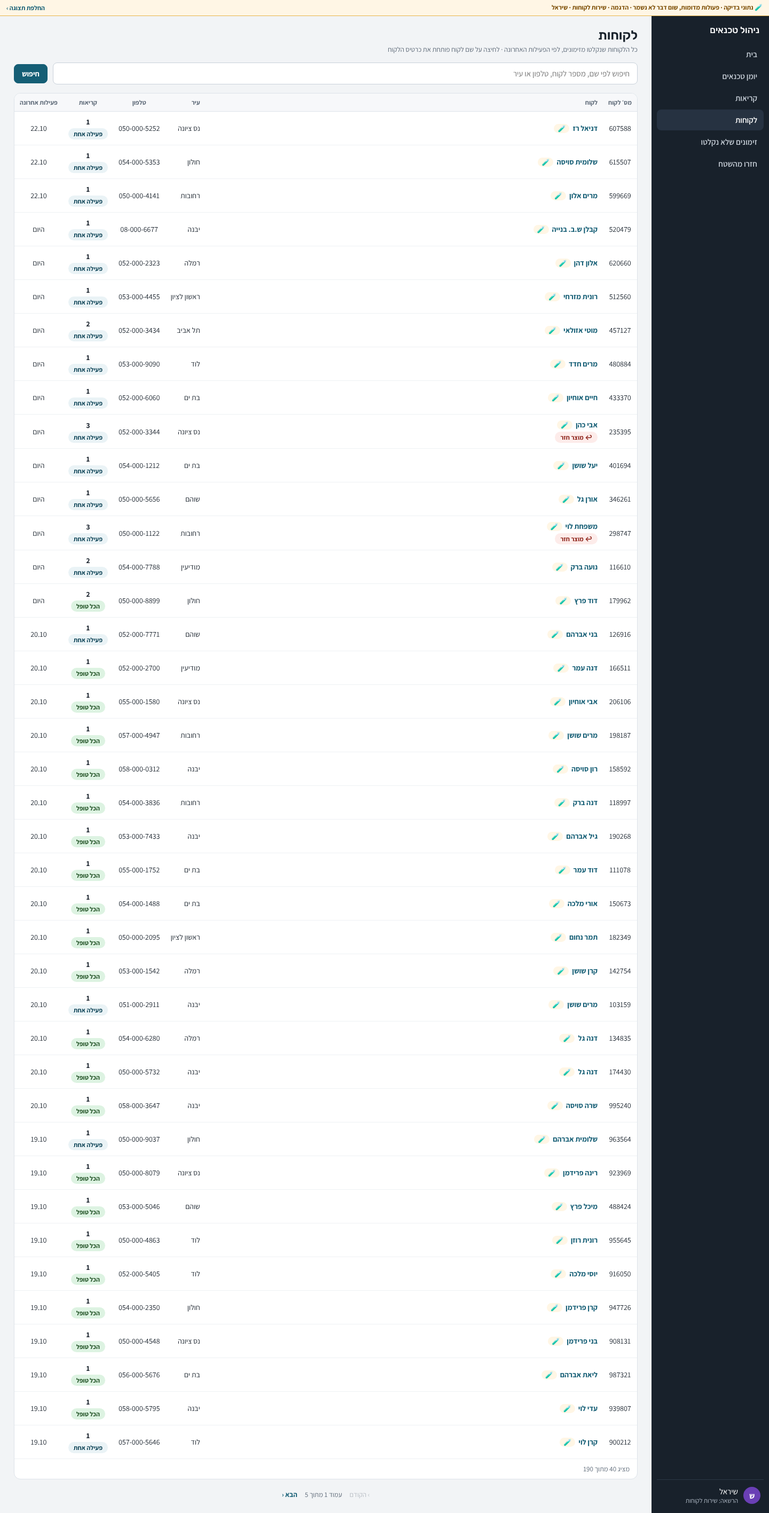
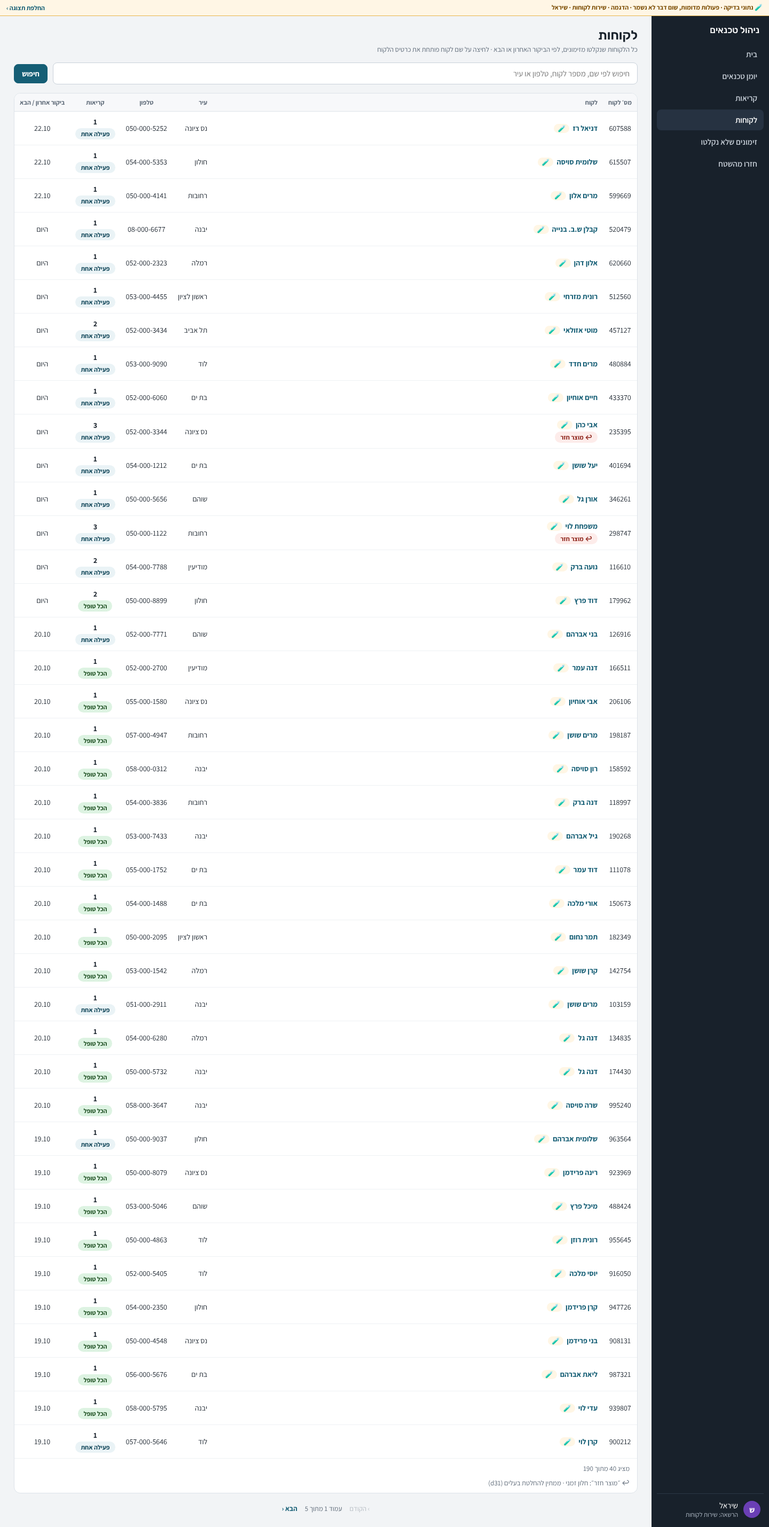
feat(ui-demo-4): customers and customer card, products edit, unparsed invitations, back from field (phase F)
- 'לקוחות' (search by name, customer number, phone, city; paging) and the
  customer card (calls with D38 status, products with a 'came back'
  marker; return window 30 days, temporary, pending d31); 'calls' key.
- 'מוצרים' (PR-06, D19): SKU, name, brand, supplier ('לא הוזן'), first
  seen; edit name/brand/supplier only where 'products' is offered; no
  import or delete; invitations never overwrite names (PR-07).
- 'זימונים שלא נקלטו': missing required field, unknown pickup place,
  invalid value; unknown SKU is never a reason (IN-02); rep mail pending
  d09; event-driven (D08).
- 'חזרו מהשטח': calls in 'המשך טיפול' with no next visit; the Outlook
  action is disabled until Microsoft 365 is connected (D23).
- Open decision #15: both work-queue screens shown to Manager, Customer
  Service and Creator as a labelled temporary rule; no matrix key
  invented.
- New ports customers, products, intake and calls.backFromField;
  fixtures and simulated products.update under app/dev (G-05).
- Tests: new routes in DEMO_PAGES, demo.spec and data-validate cases;
  22 screenshots in docs/review/ui-demo-4/.
- Independent fidelity and policy reviews; fixes applied (WORKLOG).

Written by Claude Code under the owner's direction.

diff --git a/tests/e2e/demo.spec.ts b/tests/e2e/demo.spec.ts
@@ -1373,7 +1373,10 @@ test.describe("customers and the customer card (OF-05, OF-16)", () => {
 
     await search.fill("אבי כהן");
     await page.getByRole("button", { name: "חיפוש", exact: true }).click();
-    await expect(page).toHaveURL(/[?&]q=/);
+    // Wait for this search, not the previous one (q=298747 already satisfied a bare /[?&]q=/ and
+    // a total below `before`, so the rows could still be the previous result).
+    await expect(page).toHaveURL((url) => url.searchParams.get("q") === "אבי כהן");
+    await expect(rowsOf(page).first().getByRole("link")).toHaveAttribute("aria-label", /אבי כהן/);
     await expect.poll(totalOf).toBeLessThan(before);
     const names = await rowsOf(page).getByRole("link").evaluateAll((els) => els.map((e) => e.getAttribute("aria-label") ?? ""));
     expect(names.length).toBeGreaterThan(0);
@@ -1517,7 +1520,8 @@ test.describe("products (PR-04 to PR-07, D19)", () => {
     const brand = form.getByRole("combobox", { name: /^מותג/ });
     const inactive = brand.locator("option", { hasText: "הידרו-פלוס (לא פעיל)" });
     await expect(inactive).toHaveCount(1);
-    await expect(inactive).toBeDisabled();
+    // A disabled <option> (toBeDisabled reads the select's state, not the option's).
+    await expect(inactive).toHaveJSProperty("disabled", true);
     await expect(brand).toHaveValue((await inactive.getAttribute("value")) ?? "");
     // No other inactive option is offered.
     await expect(brand.locator("option", { hasText: "(לא פעיל)" })).toHaveCount(1);

diff --git a/components/office/CustomersTable.tsx b/components/office/CustomersTable.tsx
@@ -138,17 +138,17 @@ export function CustomersTable({
         {total ? (
           <div className="sub" style={{ padding: "10px 14px" }}>
             מציג <span className="num">{rows.length}</span> מתוך <span className="num">{total}</span>
-            {returnedNote && anyReturned && (
-              <span style={{ display: "block", marginTop: 4 }}>
-                <span aria-hidden="true">↩ </span>
-                ״מוצר חזר״: {returnedNote}
-              </span>
-            )}
           </div>
         ) : (
           <div className="empty">{query ? `לא נמצאו לקוחות עבור "${query}"` : "אין לקוחות"}</div>
         )}
       </div>
+      {returnedNote && anyReturned && (
+        <div className="sub" style={{ padding: "0 14px 10px" }}>
+          <span aria-hidden="true">↩ </span>
+          ״מוצר חזר״: {returnedNote}
+        </div>
+      )}
     </section>
   );
 }

diff --git a/docs/WORKLOG.md b/docs/WORKLOG.md
@@ -4,22 +4,33 @@
 - Branch `claude/ui-demo-4`, started on `claude/ui-demo-3` (PR #8, phase E, `a9a3566`). Fictional data only (`/dev/demo`); no Supabase, network or real email; every action is simulated ("פעולה מדומה · לא נשמר"). Every screen reads through `demoDataAccess` (new ports `customers`, `products`, `intake` and `calls.backFromField`, `docs/architecture-data-access.md`), acts only through `useCommands()` (new `products.update` in `SimulatedCommands`) and renders through `DemoOfficeFrame` (sentinel and "נתוני בדיקה" strip). `docs/demo.html` has none of these screens (OF-16 ADD): they are designed in its language (cards, `.sec` heads, tables in `.scrollx` with the 520 px compact layout of phase E, pills, KPI tiles, chips, `.note`). Permission values are display only and TEMPORARY (G-04, D51).
 - **Data (fixtures, G-05):** customers are derived from the seeded calls (one per customer number, id `cu-<number>`, never the number itself; `_data/customers.ts`), with seven earlier calls of five hand-written customers added to `seed.ts` (dated before the dashboards' first October week) so that customers have repeat calls and a product that came back. Two products created from invitations with empty fields (MX-410 without brand and supplier, TB-75 without supplier), brands and suppliers with ids and one inactive brand (`reference.ts`), the catalogue with first-seen invitation and row versions (`_data/products.ts`), and seven unparsed invitations, one or more per problem kind, all from the simulator (`_data/intake.ts`). All names, phones, addresses and customer numbers are fictional; emails are `@example.test`.
 - **Screens** (placeholders replaced):
-  - **"לקוחות"** (`office/[role]/customers?q&page`, matrix key `calls`): server search by name, customer number (OF-05), phone with or without dashes, or city (a GET form; the query is in the URL, a new search starts at page 1, "ניקוי החיפוש"), latest activity first, 40 per page with the shared pager (OF-04). Columns: customer number, name (link to the card, 🧪, SIM-16), city, phone, number of calls with "N פעילות" / "הכל טופל", latest activity; "↩ מוצר חזר". At 520 px and below number, city and phone move under the name.
+  - **"לקוחות"** (`office/[role]/customers?q&page`, matrix key `calls`): server search by name, customer number (OF-05), phone with or without dashes, or city (a GET form; the query is in the URL, a new search starts at page 1, "ניקוי החיפוש"), latest or next visit first, 40 per page with the shared pager (OF-04). Columns: customer number, name (link to the card, 🧪, SIM-16), city, phone, number of calls with "N פעילות" / "הכל טופל", "ביקור אחרון / הבא" (as the calls list); "↩ מוצר חזר", qualified under the table as the temporary window (d31). At 520 px and below number, city and phone move under the name.
   - **Customer card** (`office/[role]/customers/[id]`): "› חזרה ללקוחות", name with 🧪 and customer number; five counters (all and one per service-call status, D38) that open the calls list searched by the customer number; "פרטי לקוח" from the latest invitation and the latest visit's address (D39); "מוצרים של הלקוח" (SKU, brand and supplier with "לא הוזן", 🧪 SIM-17, "↩ חזר תוך זמן קצר" with each return linked to both calls; the 30-day window is labelled "חלון זמני · ממתין להחלטת בעלים (d31)"; "במסך מוצרים ›" only for roles offered "מוצרים"); "קריאות הלקוח" (request linked to the call card, 🧪, product, technician, visits, latest or next visit with its source and "בוטל", status pill with the follow-up reason; bounded at 40 with a link to all the customer's calls). An unknown id is a 404; a role without `calls` gets "אין הרשאה" and no customer data is read (not even for the page title). The office call card's "לקוח וכתובת" now links to the customer card ("לכרטיס הלקוח ›") where `calls` is offered.
   - **"מוצרים"** (`office/[role]/products?q&page`, PR-01 to PR-07, D19; matrix key `products`): search by SKU, name, brand or supplier (SKU normalized, PR-07), columns SKU with 🧪, name, brand and supplier ("לא הוזן" when empty, PR-04, OF-07), number of calls (linked to the calls list searched by SKU) and "נוצר מזימון" (source icon, request linked to the call card, date). "עריכה" opens a form under the row (name, brand, supplier; active options only, the current inactive one shown disabled; "לא הוזן" clears; the SKU is never edited) and runs `useCommands().products.update` with the row version (D44) and only the changed fields; a simulated result marks the row "לא נשמר · פעולה מדומה". No import and no delete; the rules note says that an invitation never overwrites an existing name. Customer service gets "אין הרשאה" (choice: the spec defines this screen by its edit capability, so there is no read-only list for `calls`; product facts stay on the call and customer cards).
-  - **"זימונים שלא נקלטו"** (`office/[role]/unparsed?page`, IN-01 to IN-04): one row per invitation, newest first: subject (plain text, untrusted), received time, rep, technician (or "לא זוהה" with the attendee email), the invitation's own date and times, the request number when read, source "🧪 זימון בדיקה" (SIM-14) and "מה לתקן בזימון" with a kind pill per problem ("חסר שדה חובה", "מקום איסוף לא מוכר" (IN-03), "ערך לא תקין" with what the field accepts), the Settings label and the value as read. An unknown SKU is never a reason (IN-02, D19). "מייל לנציגה: לא נשלח · ממתין להחלטת בעלים (d09)" on every row; never shown as sent. The explanation says fixing the invitation in Outlook re-sends it and intake is event-driven, without polling (D08). No actions.
-  - **"חזרו מהשטח"** (`office/[role]/back-from-field?tech&page`): calls in "המשך טיפול" without a next visit (D38), oldest first: customer, city, reason pill, request with 🧪, visit, technician, closing time, product, source, summary excerpt, next-visit note, cancelled later visits, "ממתינה N ימים" (red after 7, as the demo's oldest follow-ups table). Counters "ממתינות לביקור חדש" and "הוותיקה ביותר" (server queries, limit 1, never counted from the page), technician chips as links with `aria-current`, "לכרטיס הקריאה ›" and a disabled "זימון ביקור חדש ב-Outlook" described by the visible hint "יהיה זמין אחרי חיבור Microsoft 365 (D23)" (`outlookConnected` false; never a fake Outlook link, OF-08 pattern).
-  - **Open decision #15 (d23), temporary and labelled:** which matrix key gates "זימונים שלא נקלטו" and "חזרו מהשטח" is undecided, so `workQueueScreensOffered()` (`_data/roles.ts`) offers both to every office role (the roles the spec lists) as a fixed rule, no matrix key is invented, and both screens show "⏳ הרשאת צפייה (החלטה פתוחה #15): בינתיים שירות לקוחות, מנהל ויוצר · ממתין להחלטת בעלים (d23)".
+  - **"זימונים שלא נקלטו"** (`office/[role]/unparsed?page`, IN-01 to IN-04): one row per invitation, newest first: subject (plain text, untrusted), received time, rep, technician (or "לא זוהה" with the attendee email), the invitation's own date and times, the request number when read, source "🧪 זימון בדיקה" (SIM-14) and "מה לתקן בזימון" with a kind pill per problem ("חסר שדה חובה", "מקום איסוף לא מוכר" (IN-03), "ערך לא תקין" with what the field accepts), the Settings label and the value as read. An unknown SKU is never a reason (IN-02, D19). "מייל לנציגה: לא נשלח · ממתין להחלטת בעלים (d09)" on every row; never shown as sent. The explanation says fixing the invitation in Outlook re-sends it and intake is event-driven, without polling (D08; decision codes are not in the user text). No actions.
+  - **"חזרו מהשטח"** (`office/[role]/back-from-field?tech&page`): calls in "המשך טיפול" without a next visit (D38), oldest first: customer, city, reason pill, request with 🧪, visit, technician, closing time, product, source, summary excerpt, next-visit note, cancelled later visits, "ממתינה N ימים" (red after 7, as the demo's oldest follow-ups table). Counters "ממתינות לביקור חדש" and "הוותיקה ביותר" (server queries, limit 1, never counted from the page), technician chips as links with `aria-current`, "לכרטיס הקריאה ›" and a disabled "זימון ביקור חדש ב-Outlook" described by the visible hint "זימון ביקור חדש ב-Outlook יהיה זמין אחרי חיבור Microsoft 365." (D23; `outlookConnected` false; never a fake Outlook link, OF-08 pattern).
+  - **Open decision #15 (d23), temporary and labelled:** which matrix key gates "זימונים שלא נקלטו" and "חזרו מהשטח" is undecided, so `workQueueScreensOffered()` (`_data/roles.ts`) offers both to every office role (the roles the spec lists) as a fixed rule, no matrix key is invented, and both screens show "⏳ הרשאת צפייה זמנית: מנהל, שירות לקוחות ויוצר · ממתין להחלטת בעלים (#15)" (the roles are derived from the rule; the decision's number, not its board ref d23, so it cannot be read as the approved D23).
   - **Navigation (OF-02):** the sidebar order is "לוח בקרה / בית", "יומן טכנאים", "קריאות", "לקוחות" (with `calls`), "זימונים שלא נקלטו", "חזרו מהשטח", "דשבורד", "מוצרים" (with `products`), "משתמשים", "הגדרות", following the spec's office screens table. The Manager's and customer service's home work queues link to "חזרו מהשטח" ("למסך חזרו מהשטח ›"), and the `/dev/demo` landing lists the new screens.
 - **Deviations applied:** OF-02, OF-04, OF-05, OF-07, OF-08 (pattern), OF-16, IN-01 to IN-04, PR-01 to PR-07, SIM-14 to SIM-17, D08, D19, D23, D38, D39, D44, D47, G-04. Not touched: OF-12 (the dashboard's products tab). **Pending (visible, never resolved):** #15 / d23 on both work-queue screens, d09 on every unparsed row, D23 for the Outlook action, the return window (d31).
 - **Integration:** the three builders' work fitted without component changes. Removed the unused `ScreenPlaceholder` scaffold from `office/[role]/_Placeholder.tsx`; the #15 access line is one constant (`WORK_QUEUE_ACCESS_HINT`, `_data/roles.ts`) instead of a copy on each page; the landing page lists the new screens. No CSS rule changed outside the new `intake-backfield` block in `styles/ui.css`.
 - **Tests:** `DEMO_PAGES` holds the 15 new routes (four screens and the customer card for each office role), so the `/dev` gate covers them in all six request variants (and four query-string views), and `demo.spec.ts` renders each at 390 / 820 / 1440 (sentinel, strip, RTL, no overflow, no console errors), plus four search, paging and filter views. New `demo.spec.ts` cases: unknown customer and unknown role are 404; navigation per role (customer service, Manager, Creator: the three new items, "מוצרים" only for the Manager and Creator, the order, `aria-current` on each new screen and the card); the homes' "חזרו מהשטח" link; customers search by customer number and by name (URL and rows), no-match text, paging, clear; the card (calls with 🧪, the returned product with its pending window, the products link, a call link to the call card; customer service without the products link; a counter opens the calls list by customer number); the call card's customer link and the card's back link; products (edit offered to the Manager and the Creator, customer service "אין הרשאה" with no product data, "לא הוזן" visible at every width, no import or delete, SKU search case-insensitive, an empty name blocked inline with `aria-invalid` and no toast, a change simulated with the toast and the row marked not saved, focus back on "עריכה", Escape closes); unparsed (seven rows, each problem kind, d09 on every row, no mail line says sent, simulator source, the #15 line for every role, no buttons); back from field (technician chip filter in the URL with `aria-current` and only that technician's rows, the per-technician total, the call-card link, every Outlook action disabled with the D23 hint and no Outlook link, the oldest-wait counter). `data-validate.spec.ts`: negative tests of the product edit (names, SKUs, versions, option ids, no decision codes in errors), list queries and URL state (`?q&page`, `?tech&page`: oversized, malformed and unknown values fall back), customer ids and the back-from-field query.
-- **Results:** `eslint` 0 problems; `typecheck` passed; `build` passed (1384 pages); `test:ci` 8/8; `scan:bundle` passed (7764 files); Playwright 1795 passed, 0 failed, 2060 skipped (one-project tests, by design), green on two consecutive full runs (the second on the final build, after comment-only changes). `scan:secrets` not run (it downloads Gitleaks; no network in this run).
-- **Screenshots:** 22 images in `docs/review/ui-demo-4/` (seven app states at 390 / 820 / 1440: "לקוחות", the customer card, "מוצרים", the open product edit, "זימונים שלא נקלטו", "חזרו מהשטח" as the Manager, "לקוחות" as customer service; and the call card with the new customer link at 1440), from a local production build (`SCREENSHOTS=1 … -g "ui-demo-4"`). `docs/demo.html` has no such screens (OF-16 ADD), so there are no `demo-` counterparts.
+- **Fix pass (fidelity and policy reviews of phase F):**
+  - **Bidi (F1, must-fix):** `DashboardSection` isolates its title in `<bdi>`, so "ממתינים לתיקון ב-Outlook · 7" no longer puts the count inside the Latin run.
+  - **Decision codes and #15 (F2, P1, P2, P8):** the approved codes D08, D19 and D23 are out of the shared components' Hebrew text (kept in comments; the demo page's simulator note dropped "(D23)" too). The work-queue line reads "הרשאת צפייה זמנית: מנהל, שירות לקוחות ויוצר · ממתין להחלטת בעלים (#15)": the roles are derived from `workQueueScreensOffered`, and the decision's number replaces the board ref d23, which read like the approved D23. `OpenDecisionId` gains d31; `WORK_QUEUE_SCREENS_DECISION` is typed (`{ number: 15, boardRef: "d23" }`); the return-window note lives in `office/[role]/_pendingNotes.ts`.
+  - **Customers (F3, F4, F8, P7, N1, N6):** the list's last column is "ביקור אחרון / הבא", like the calls list (DTO `latestVisitDate`, the newest call's latest or next visit; subtitle and docs say the same), instead of a "פעילות אחרונה" that showed tomorrow's planned visits. `CustomerDetail.returnWindowDays` carries the window the server used, and the card shows it (the page passes only the pending note). The card's five counters fit one row from about 700 px and 3 + 2 compact tiles at phone width (`.cu-kpis`). The list labels "↩ מוצר חזר" as the temporary window (d31) under the table. The card's dates use one helper ("היום" in the returns and products lines too). The card's no-access branch has its h1.
+  - **Call card (F5):** "לכרטיס הלקוח ›" moved out of the "לקוח וכתובת" heading (a flex row beside it), so the heading's name is its title.
+  - **Policy (P3, P5, P6):** the unparsed fixture's invalid optional "באחריות" value is replaced by an invalid call type (a required, Settings-backed field), so no rule about optional fields is invented (owner question below). The homes' "למסך חזרו מהשטח" links follow `workQueueScreensOffered` (`homeLinks().backFromField` is null otherwise). The `intake` and `calls.backFromField` ports say the server gate is deny-by-default until #15. A role without `calls` gets `firstSeen: null` on "מוצרים" (the DTO contract).
+  - **Commands (N3, F7):** `ownValue()` (`features/data-access/common.ts`, own keys only) replaces every stored-record lookup in `SimulatedCommands`, so "constructor" or "toString" read as not found. The product edit's checks are one shared `productEditError()` (input, product and version, brand, supplier), run by the simulated command and tested directly: deny by default with nothing stored ("המוצר לא נמצא"), no change, stale version, unknown, inactive and prototype-named options.
+  - **Reuse and polish (N2, N4, N5, N10, N11):** one `ListSearch` replaces `CustomerSearch` and `ProductSearch`; one `VisitSourceIcon` (`components/ui/TestBadge.tsx`) replaces four local `SourceIcon` copies (CallsTable, TechLanes, CustomerCard, ProductsTable). The placeholder rep "נציגה 2" is now "הדס" (same account id and list position). The unparsed screen's single counter tile, which repeated the heading count, is removed. `PROJECT-MAP.md` wording fixed. The products table header spells "מק״ט" like the rest of that screen. The landing page lists all four new screens for the Creator. TB-75's brand is the inactive "הידרו-פלוס", so the disabled "(לא פעיל)" option is rendered and tested.
+  - **Flaky test fixed at the root:** the customers search test waited for `/[?&]q=/` and a smaller total after searching a name, both already true from the previous search (q=298747), so on a fast run it read the previous rows; it now waits for this search's `q` and its first row.
+  - **Tests (F6, F7):** the back-from-field counters are asserted by tile ("הוותיקה ביותר" equals the first row's days; "ממתינות לביקור חדש" equals the list total); a customer-card status tile ("טופלה") opens the calls list with that status and exactly that many rows; the products edit shows the inactive current brand disabled and keeps it when another field is saved, and a save with no change is refused inline ("אין שינוי לשמור", no toast); the unparsed heading's isolation, no "(d23)" and no decision code on the back-from-field screen; the customers list's return note.
+- **Results (after the fix pass):** `eslint` 0 problems; `typecheck` passed; `build` passed (1384 pages); `test:ci` 8/8; `scan:bundle` passed (7764 files); Playwright 1802 passed, 0 failed, 2062 skipped (one-project tests, by design), green on two consecutive full runs of the final build (the run before them had one failure, the search race above). Before the fix pass: 1795 / 0 / 2060. `scan:secrets` not run (it downloads Gitleaks; no network in this run).
+- **Screenshots:** 22 images in `docs/review/ui-demo-4/`, retaken after the fix pass (seven app states at 390 / 820 / 1440: "לקוחות", the customer card, "מוצרים", the open product edit, "זימונים שלא נקלטו", "חזרו מהשטח" as the Manager, "לקוחות" as customer service; and the call card with the new customer link at 1440), from a local production build (`SCREENSHOTS=1 … -g "ui-demo-4"`). `docs/demo.html` has no such screens (OF-16 ADD), so there are no `demo-` counterparts.
 - **Open items (owner look or decision):**
-  - **Owner questions (CLAUDE.md rule 3; temporary behaviour meanwhile):** decision #15 (which matrix key gates the two work-queue screens and whether all spec v2 screens are in the first release); the product return window (30 days, temporary; shown as pending d31); whether customer service should get a read-only "מוצרים" list (none now); whether a new brand or supplier can be created from the product edit (only existing options now); whether an invitation whose attendee matches no technician is a problem (shown as information now).
+  - **Owner questions (CLAUDE.md rule 3; temporary behaviour meanwhile):** decision #15 (which matrix key gates the two work-queue screens and whether all spec v2 screens are in the first release); the product return window (30 days, temporary; shown as pending d31); whether customer service should get a read-only "מוצרים" list (none now); whether a new brand or supplier can be created from the product edit (only existing options now); whether an invitation whose attendee matches no technician is a problem (shown as information now); whether an invalid value in an optional field (for example "באחריות") blocks intake (the spec names only missing required values and unknown pickup places; no fixture shows it); whether "חזרו מהשטח" should list only calls whose service-call status is "המשך טיפול" without a next visit (the current reading, since the action is a new invitation) or every visit closed as "המשך טיפול".
   - **New visual elements to show the owner (OF-16 ADD):** all four screens and the customer card; the "↩ מוצר חזר" pill; the problem-kind pills; the reason pill and the waiting days; the disabled Outlook action with its hint; the inline product edit.
   - The customers list shows the number of active calls, not the last call's status (the list DTO has no last-call status); search is submit-based (Enter or "חיפוש"), not as-you-type like the calls list; server-paged lists keep the scroll position on "הבא ‹" (only the calls list scrolls to its table); "חזרו מהשטח" rows do not link to the customer card (the call card does); the unparsed counter shows the total only (no counts per problem kind in the DTO); a simulated product edit changes only the products screen.
+  - **Deferred from the fix pass (reason):** a client test page for the products command outside "מוצרים" (F7: a new demo route; the deny path is covered by testing `productEditError`, which the command runs, with nothing stored); per-problem-kind counters on "זימונים שלא נקלטו" (N5: needs a DTO field; the redundant total tile was removed); disabling "שמירה" until something changes (N7: the inline "אין שינוי לשמור" is kept and tested); a neutral unparsed heading without "Outlook" (P9: optional; the product wording is right once Microsoft 365 is connected, and the demo page's note says the invitations come from the simulator); the Manager's top navigation wraps to three rows at 390 px with ten items (N9: an owner look); customer cards pre-built for every customer and role, 1384 pages (N11: could render on demand).
   - Customer card pages are pre-built for every customer and role (190 customers × 3 roles), so the build has 1384 pages (777 before).
 
 ## 2026-11-04 — UI demo, phase E (Creator settings)
